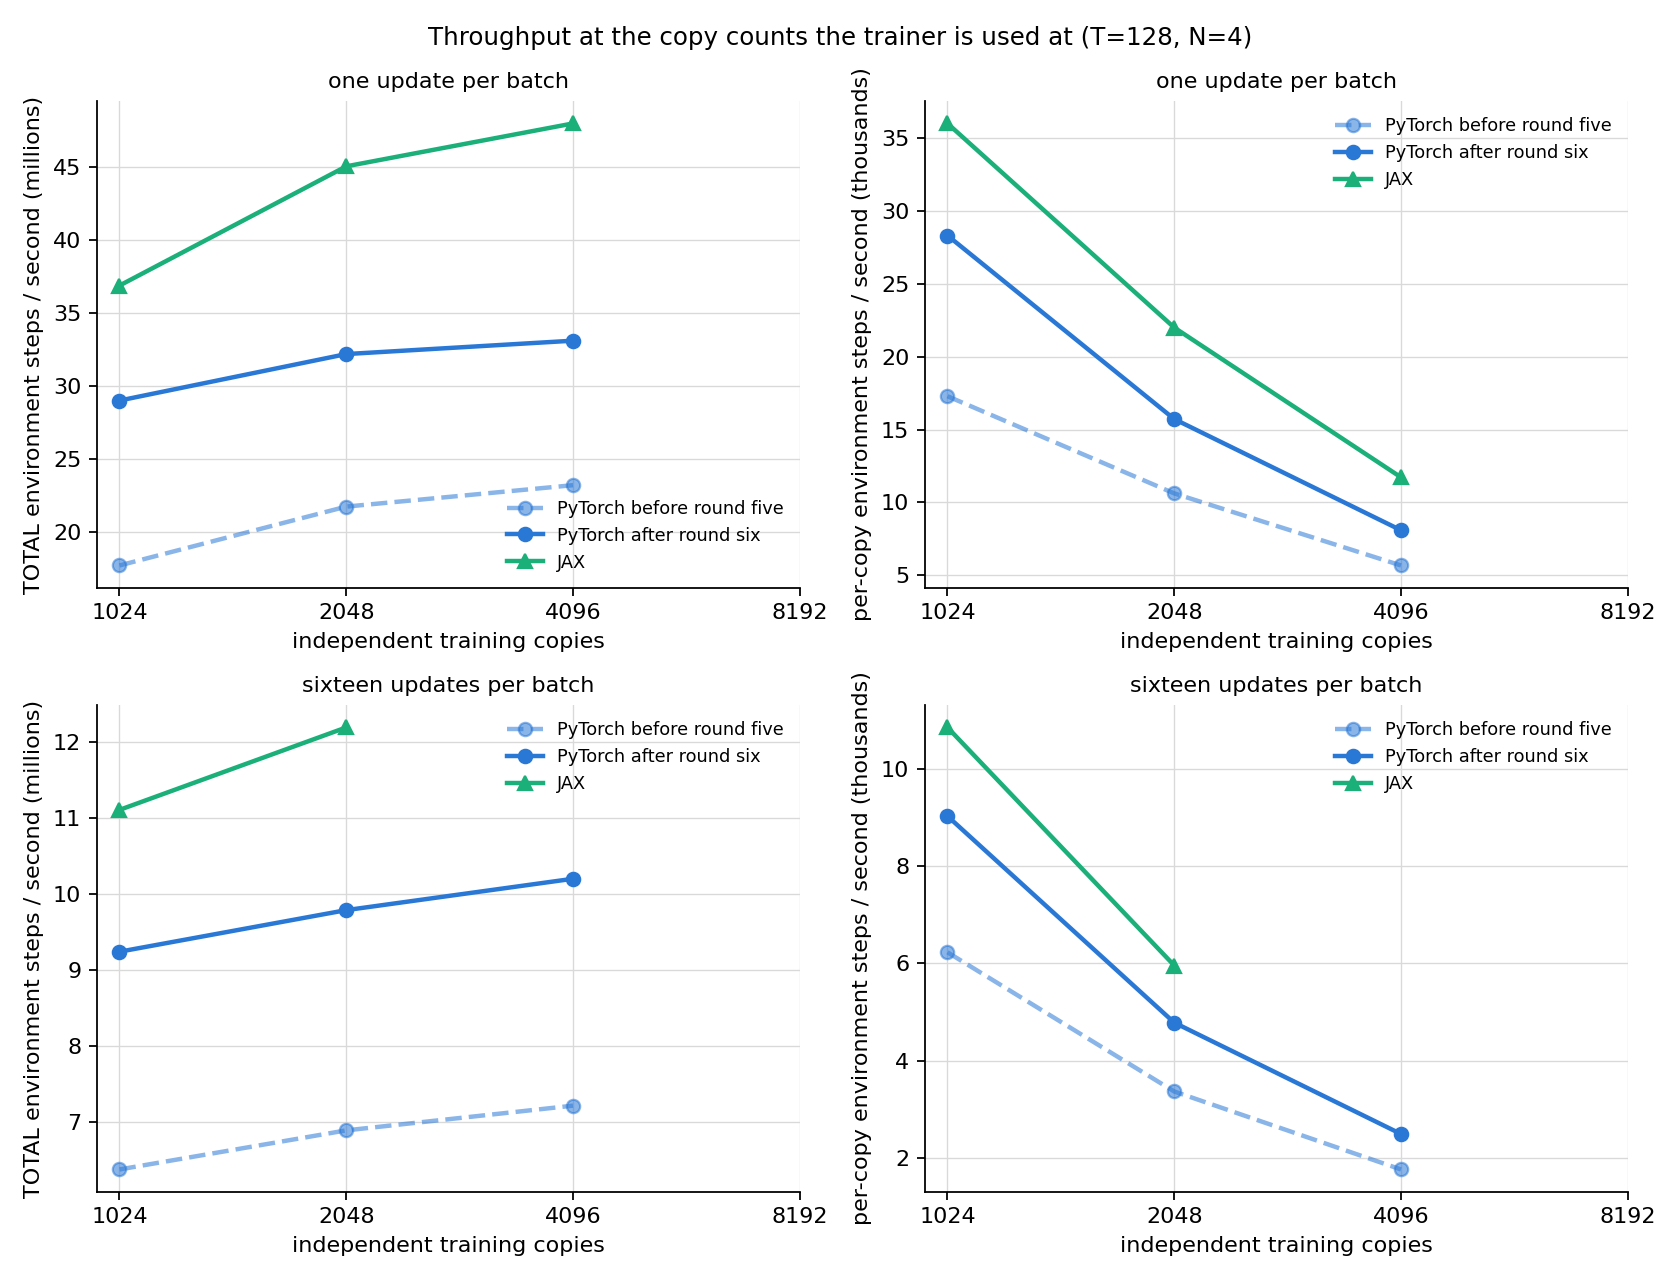
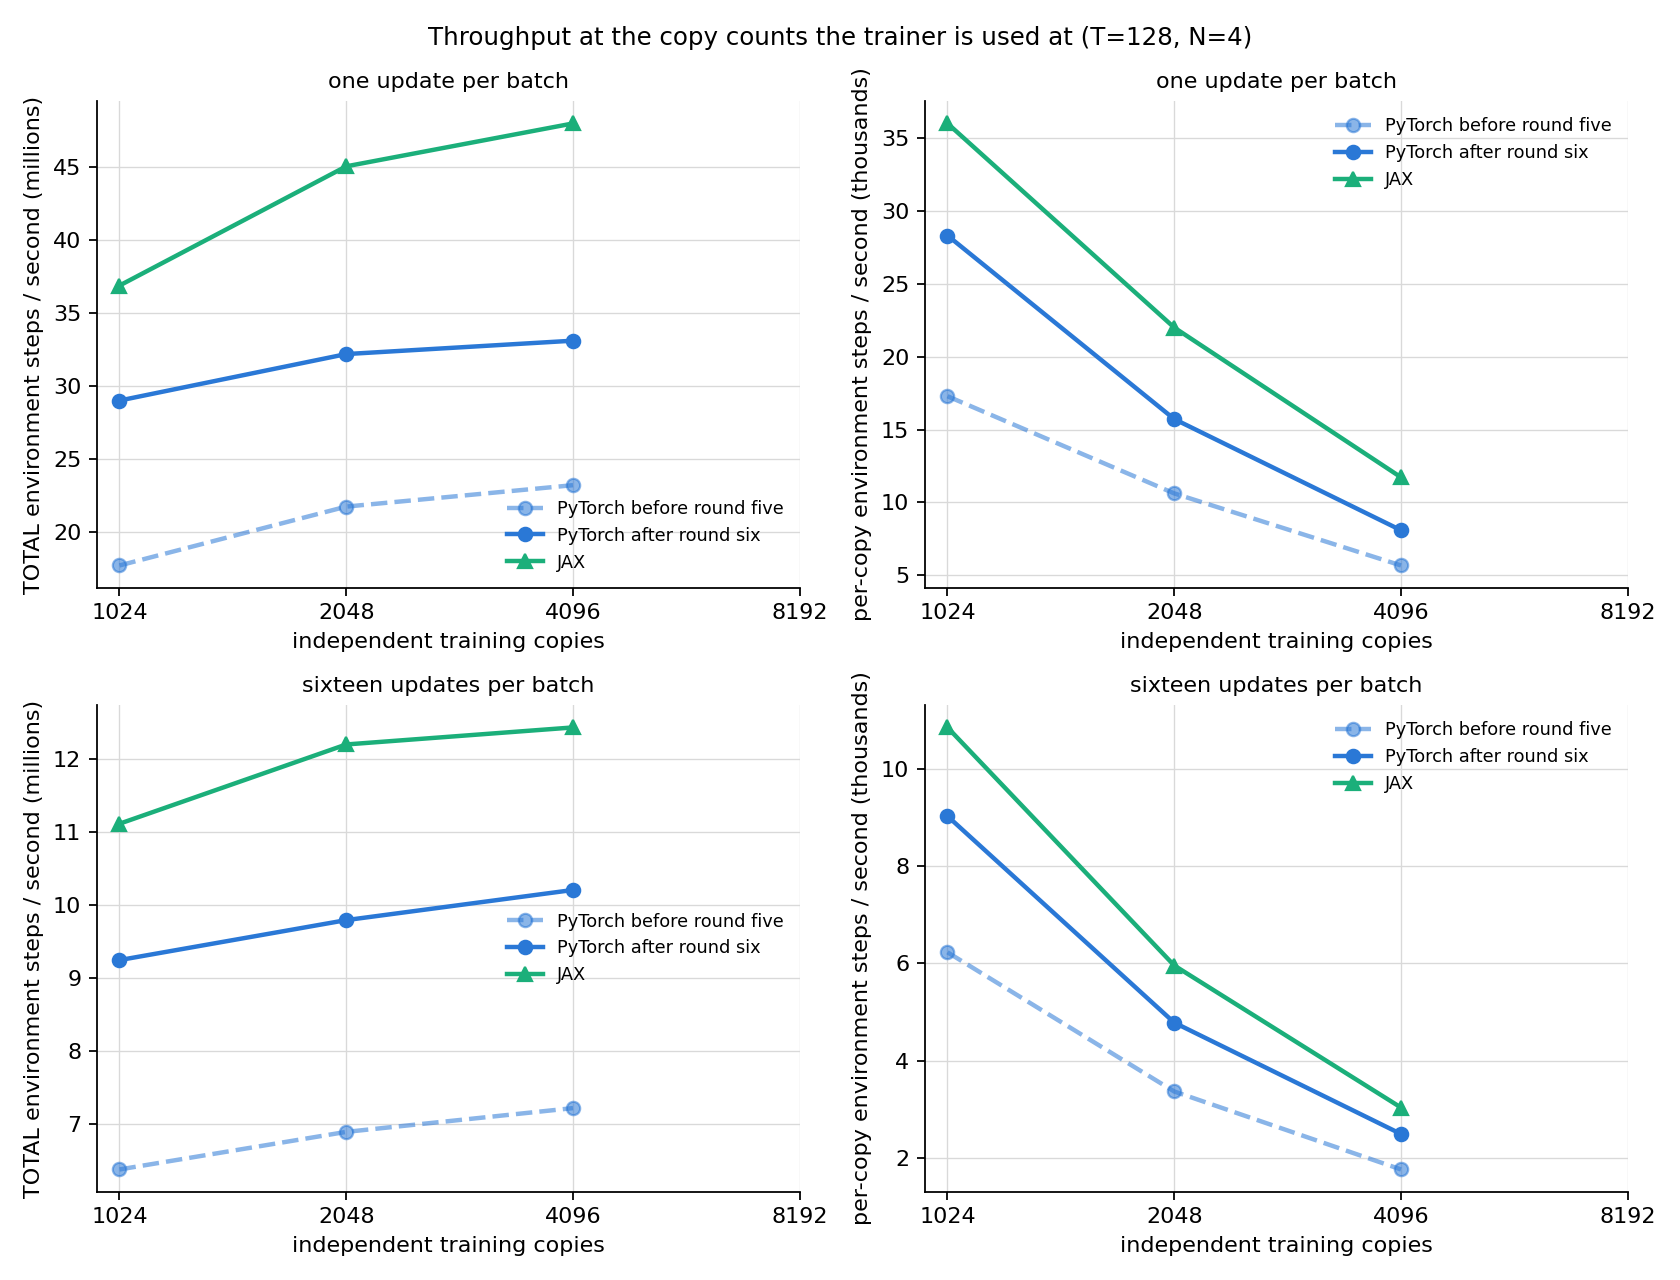
wording: the rollout's multiplications reach about a quarter of the update stage's rate, not a fifth

diff --git a/09_parallelization/report/2026-08-15-pointmaze-gpu-parallelization/code/make_report.py b/09_parallelization/report/2026-08-15-pointmaze-gpu-parallelization/code/make_report.py
@@ -2448,7 +2448,7 @@ forms land 3.0e-8 apart, which is 2.9e-7 of the largest parameter.
 
 The kernel profile names one item that neither round went after, and it is not in the update
 stage. Of the rollout's 15.3 milliseconds at 4,096 copies, **11.45 are matrix multiplications
-running at about 850 gigabytes per second** — a fifth of the rate the update stage's
+running at about 850 gigabytes per second** — about a quarter of the rate the update stage's
 multiplications reach, and the counted floor for the whole rollout is 2.8 milliseconds.
 
 The cause is structural rather than a missing optimisation. The rollout is 128 sequential

diff --git a/09_parallelization/report/2026-08-15-pointmaze-gpu-parallelization/report.md b/09_parallelization/report/2026-08-15-pointmaze-gpu-parallelization/report.md
@@ -45,7 +45,7 @@ the earlier sections' conclusions do not all carry over.
 | <span class="unread">[End-to-end training on a dedicated processor node](#end-to-end-training-on-a-dedicated-processor-node)</span> | 2026-08-15 21:17 PT | 2026-08-15 21:17 PT | unread |
 | <span class="unread">[The best setup on each platform, at 4,096 copies or fewer](#the-best-setup-on-each-platform-at-4096-copies-or-fewer)</span> | 2026-08-15 21:17 PT | 2026-08-15 21:17 PT | unread |
 | <span class="unread">[A processor with fewer, faster cores against the 224-thread node](#a-processor-with-fewer-faster-cores-against-the-224-thread-node)</span> | 2026-08-15 21:17 PT | 2026-08-15 21:17 PT | unread |
-| <span class="unread">[Training a thousand to four thousand copies at once](#training-a-thousand-to-four-thousand-copies-at-once)</span> | 2026-08-15 21:17 PT | 2026-08-15 21:49 PT | unread |
+| <span class="unread">[Training a thousand to four thousand copies at once](#training-a-thousand-to-four-thousand-copies-at-once)</span> | 2026-08-15 21:17 PT | 2026-08-15 21:54 PT | unread |
 
 *Times are when a section's text first appeared in this document and when it last changed, taken from the document's version history. A section whose numbers were re-measured shows a later change time. All times are Pacific (PT); the machines that produced them run on Eastern Time and the values are converted for display.*
 
@@ -1016,7 +1016,8 @@ was changing while it was measured, and those figures are superseded here.
 | PyTorch after round six | 2048 | 107.1 | <u>9.79</u> | 4.8 | 0.058 | 6.9 |
 | JAX | 2048 | 86.0 | **12.20** | 6.0 | 0.047 | 4.7 |
 | PyTorch before round five | 4096 | 290.6 | 7.22 | 1.8 | 0.158 | 13.8 |
-| PyTorch after round six | 4096 | 205.5 | **10.20** | 2.5 | 0.111 | 13.8 |
+| PyTorch after round six | 4096 | 205.5 | <u>10.20</u> | 2.5 | 0.111 | 13.8 |
+| JAX | 4096 | 168.7 | **12.43** | 3.0 | 0.092 | 9.1 |
 
 *Best aggregate rate per copy count in bold, second best underlined. The aggregate rate rises with the copy count while the rate each individual copy gets falls, so the hours column is the one that says how long a single training run actually takes. 8,192 copies is past the range this section is about and was measured only for the changed PyTorch build, to see whether the card still holds it.*
 
@@ -1417,7 +1418,7 @@ forms land 3.0e-8 apart, which is 2.9e-7 of the largest parameter.
 
 The kernel profile names one item that neither round went after, and it is not in the update
 stage. Of the rollout's 15.3 milliseconds at 4,096 copies, **11.45 are matrix multiplications
-running at about 850 gigabytes per second** — a fifth of the rate the update stage's
+running at about 850 gigabytes per second** — about a quarter of the rate the update stage's
 multiplications reach, and the counted floor for the whole rollout is 2.8 milliseconds.
 
 The cause is structural rather than a missing optimisation. The rollout is 128 sequential
@@ -1450,6 +1451,7 @@ rather than attempted at the end of a round.
 | one update per batch | 4096 | 63.3 ms | 43.7 ms | 1.45 |
 | sixteen updates per batch | 1024 | 56.7 ms | 47.2 ms | 1.20 |
 | sixteen updates per batch | 2048 | 107.1 ms | 86.0 ms | 1.25 |
+| sixteen updates per batch | 4096 | 205.5 ms | 168.7 ms | 1.22 |
 
 The reason is not that any PyTorch program is slow. Each is timed on its real shape in the
 subsection above and reaches 72 to 100 percent of the rate a plain copy of memory gets. The reason
@@ -1462,6 +1464,16 @@ activation, then the next multiplication — and every intermediate between them
 memory and read back. The JAX trainer hands the whole iteration to a compiler that emits fewer
 programs, folding chains of element-wise work into the loops that produce and consume them, so a
 number of the intermediates PyTorch writes and re-reads are never written at all.
+
+Both trainers implement the same algorithm on the same shapes, so the bytes the algorithm itself requires are the same for both, and the distance each one sits above that figure is comparable:
+
+| | milliseconds per iteration | times the counted traffic floor |
+|---|---|---|
+| the bytes the algorithm requires, at the card's measured bandwidth | 77 | 1.00 |
+| JAX | 169 | 2.19 |
+| PyTorch | 206 | 2.67 |
+
+*4,096 copies, sixteen updates per batch. The floor counts every tensor the algorithm writes and every later read of it (`benchmarks/count_traffic.py`); it does not count intermediates a particular implementation has to materialise, which is exactly the quantity the two frameworks differ in.*
 
 Round six measured the obvious way to close that difference — having PyTorch's compiler generate
 the multiplications so that the bias and the activation fold into them as an epilogue — and the

diff --git a/09_parallelization/ppo/torch_ppo/progress_and_changes.md b/09_parallelization/ppo/torch_ppo/progress_and_changes.md
@@ -656,8 +656,8 @@ downwards. Sixteen updates per batch.
 
 The kernel profile after the round says where an iteration's remaining time sits, and one item
 stands out for the next round rather than this one. Of the rollout's 15.3 milliseconds at 4,096
-copies, **11.45 are matrix multiplications running at about 850 gigabytes per second** — a fifth
-of what the update stage's reach. The cause is structural: the rollout is 128 sequential steps and
+copies, **11.45 are matrix multiplications running at about 850 gigabytes per second** — about a
+quarter of what the update stage's multiplications reach (2,500 to 3,400 on the same card). The cause is structural: the rollout is 128 sequential steps and
 each one multiplies **four rows per copy** against that copy's whole actor weights, so the weights
 (75.6 megabytes across 4,096 copies) are re-read from memory on every step and each read serves
 almost no arithmetic. The counted floor for the whole rollout is 2.8 milliseconds against 15.3
